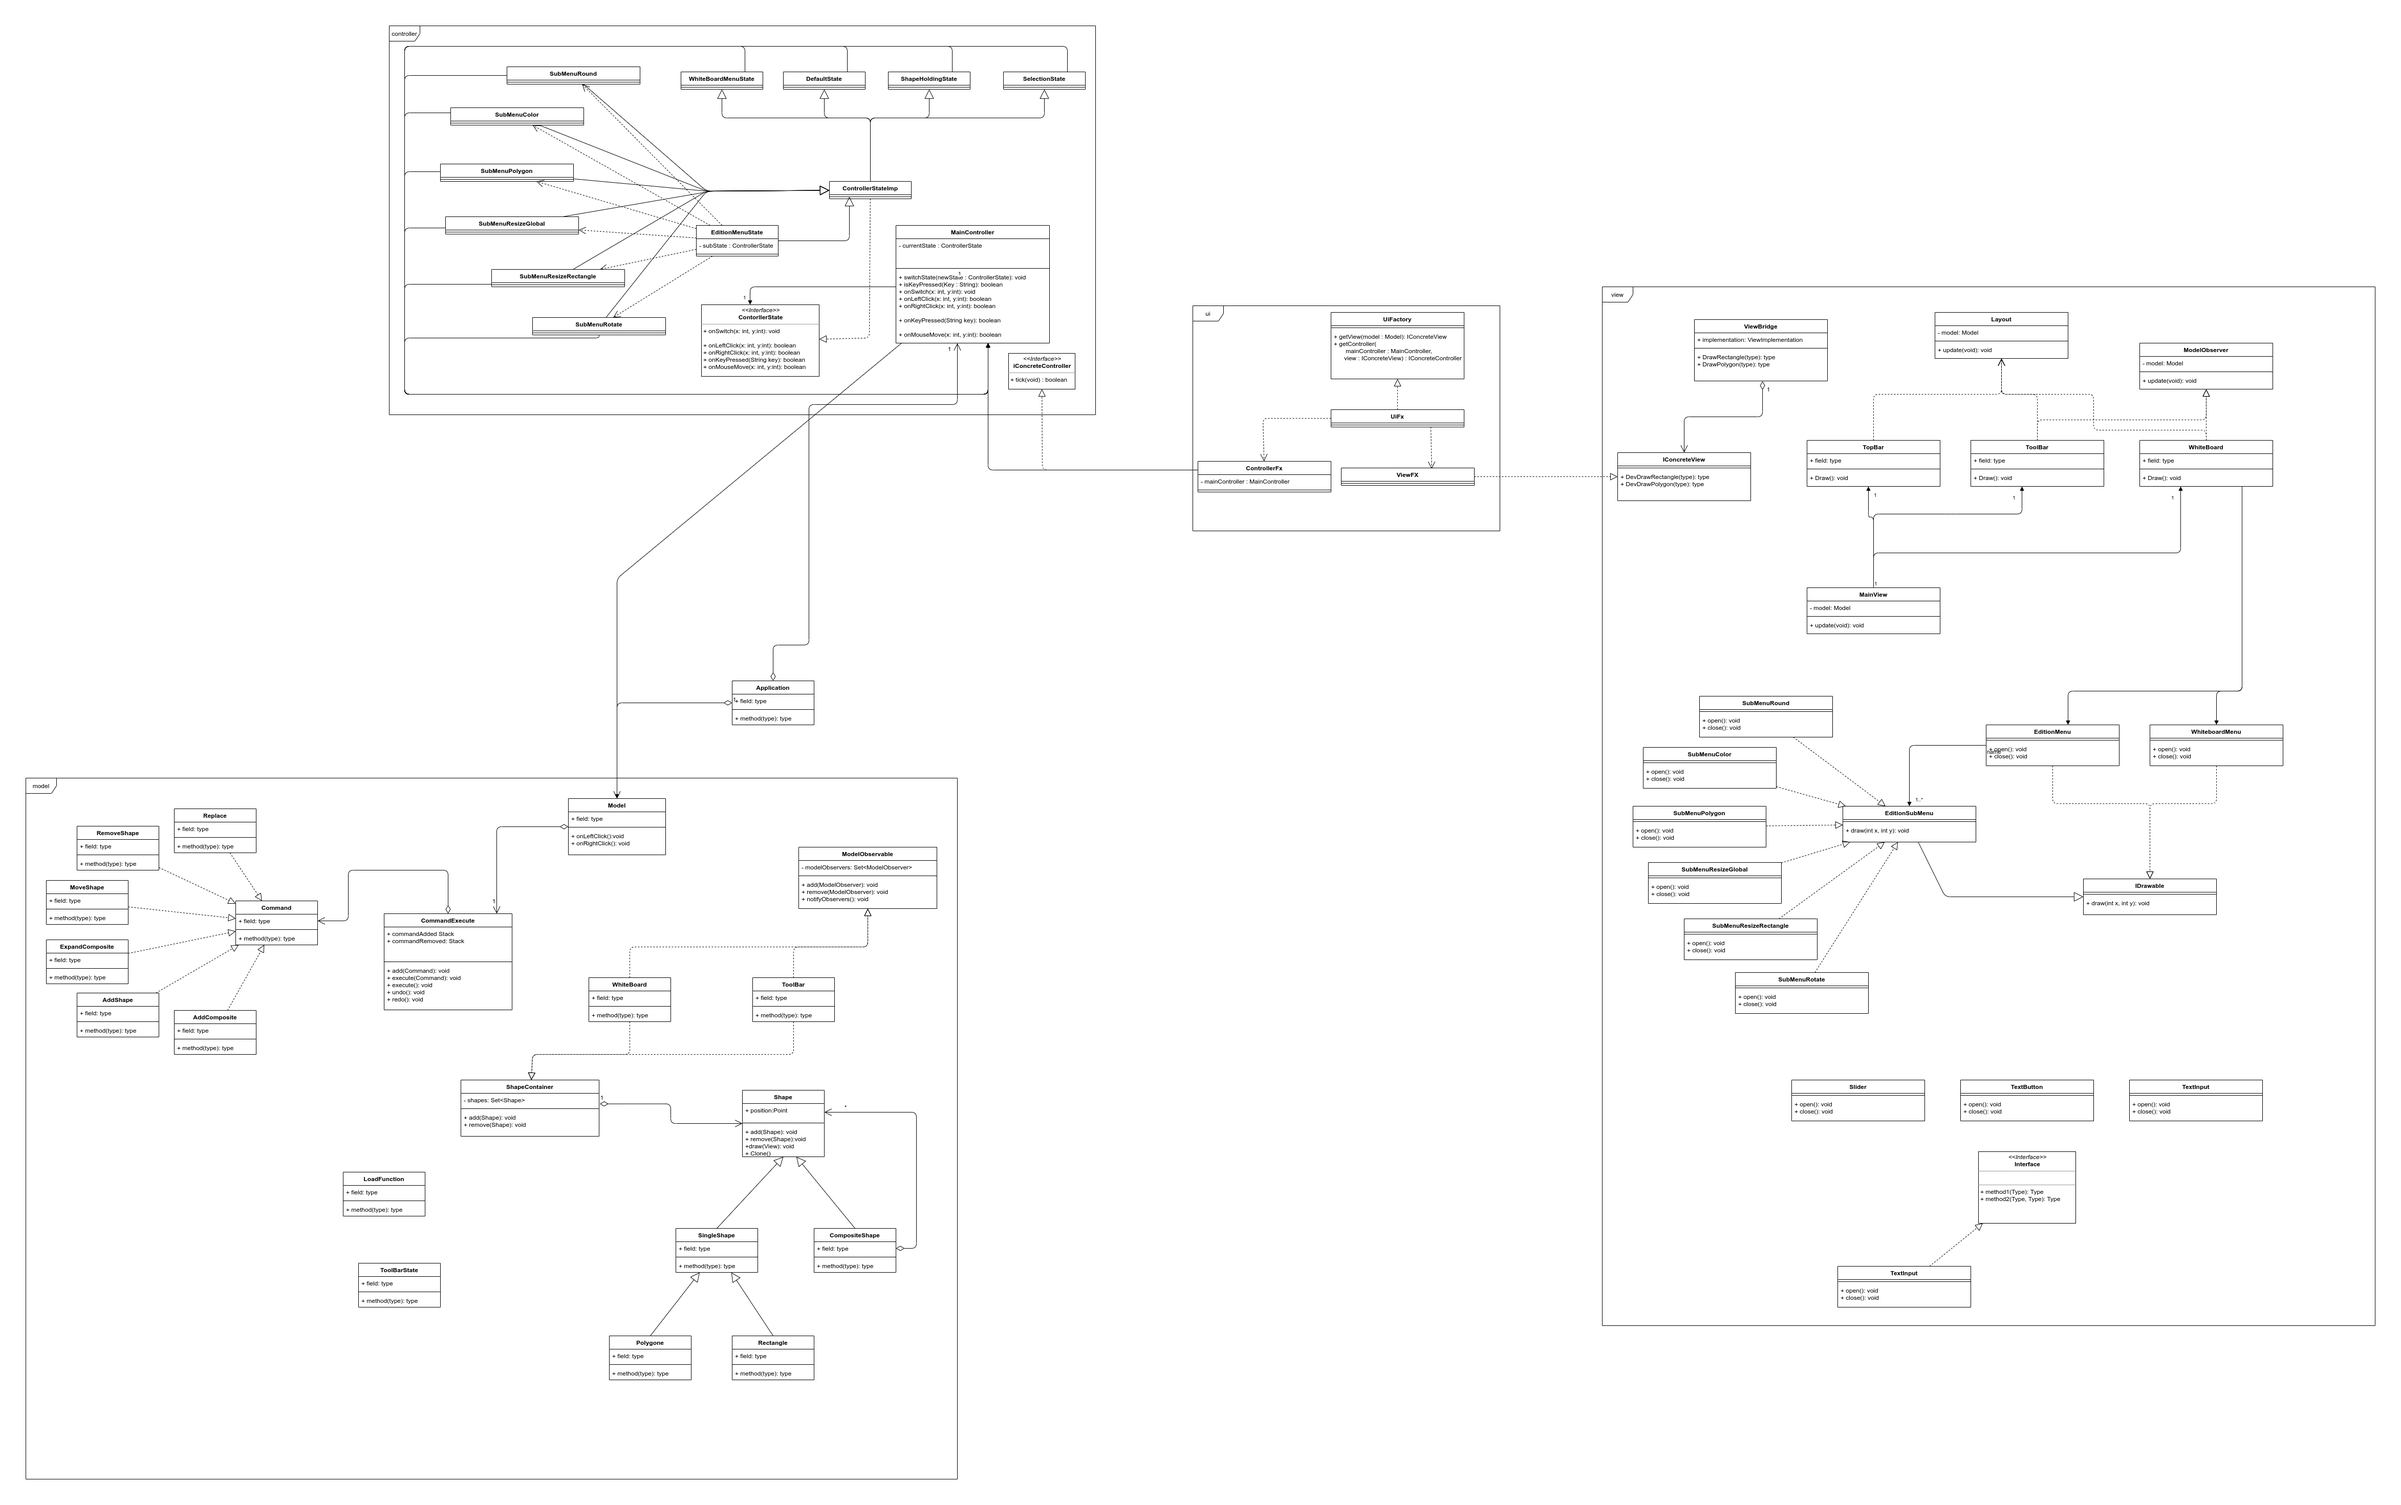
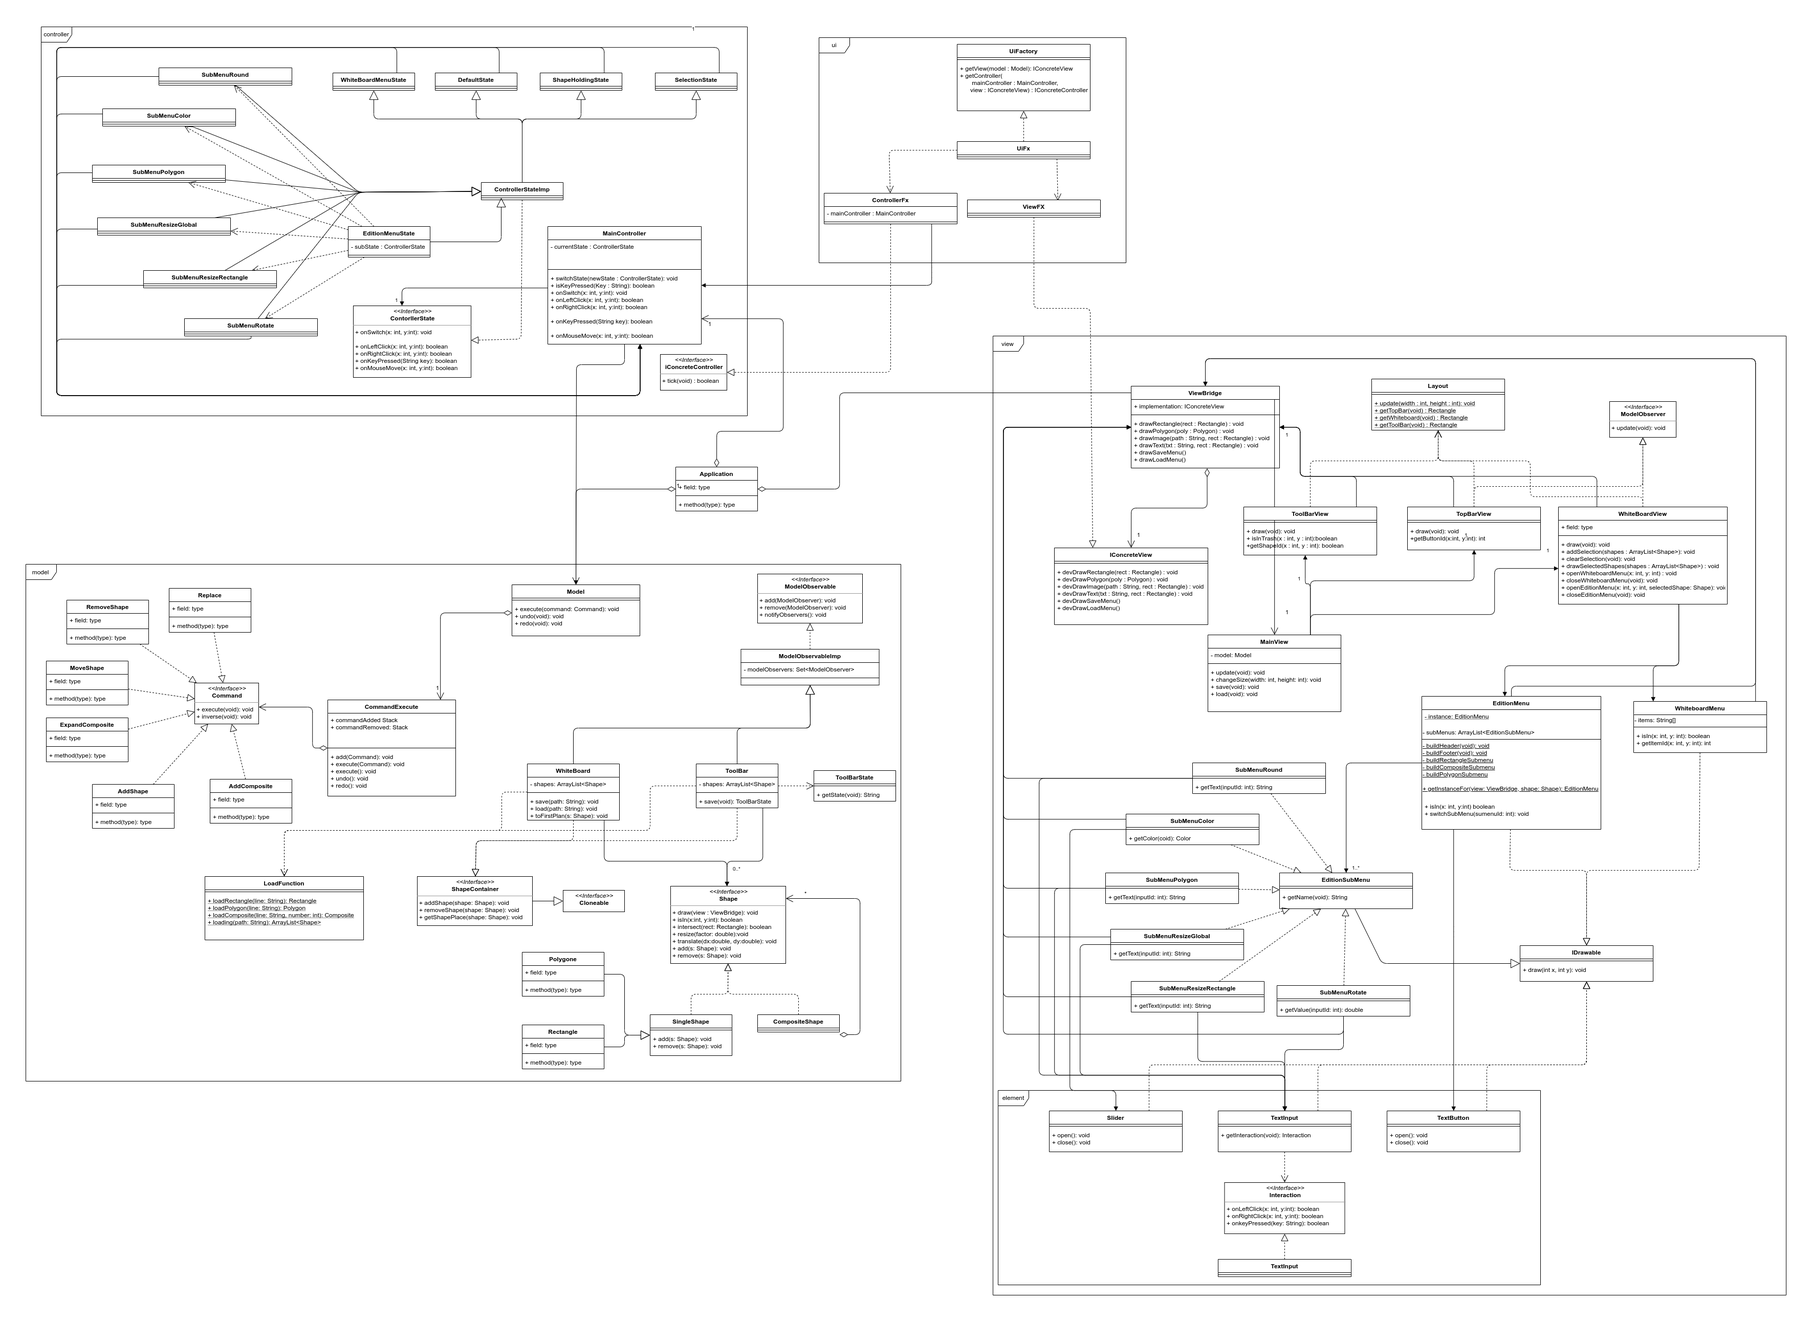
Uml almost finish

diff --git a/src/main/java/application/model/shape/SingleShape.java b/src/main/java/application/model/shape/SingleShape.java
@@ -2,7 +2,7 @@ package application.model.shape;
 
 import application.exceptions.UnsupportedOperationException;
 
-public abstract class SingleShape implements Shape, Cloneable {
+public abstract class SingleShape implements Shape {
     @Override
     public void add(Shape shape) throws UnsupportedOperationException {
         throw new UnsupportedOperationException("Can't call add on single shape.");

diff --git a/src/main/java/application/model/shape/Shape.java b/src/main/java/application/model/shape/Shape.java
@@ -4,7 +4,7 @@ import application.exceptions.UnsupportedOperationException;
 import application.utils.Color;
 import application.view.ViewBridge;
 
-public interface Shape {
+public interface Shape extends Cloneable {
     void add(Shape shape)    throws UnsupportedOperationException;
     void remove(Shape shape) throws UnsupportedOperationException;
 

diff --git a/src/main/java/application/model/shape/CompositeShape.java b/src/main/java/application/model/shape/CompositeShape.java
@@ -7,7 +7,7 @@ import java.util.ArrayList;
 import java.util.HashSet;
 import java.util.Set;
 
-public class CompositeShape implements Shape, Cloneable {
+public class CompositeShape implements Shape {
     ArrayList<Shape> shapeSet;
 
     public CompositeShape() {
